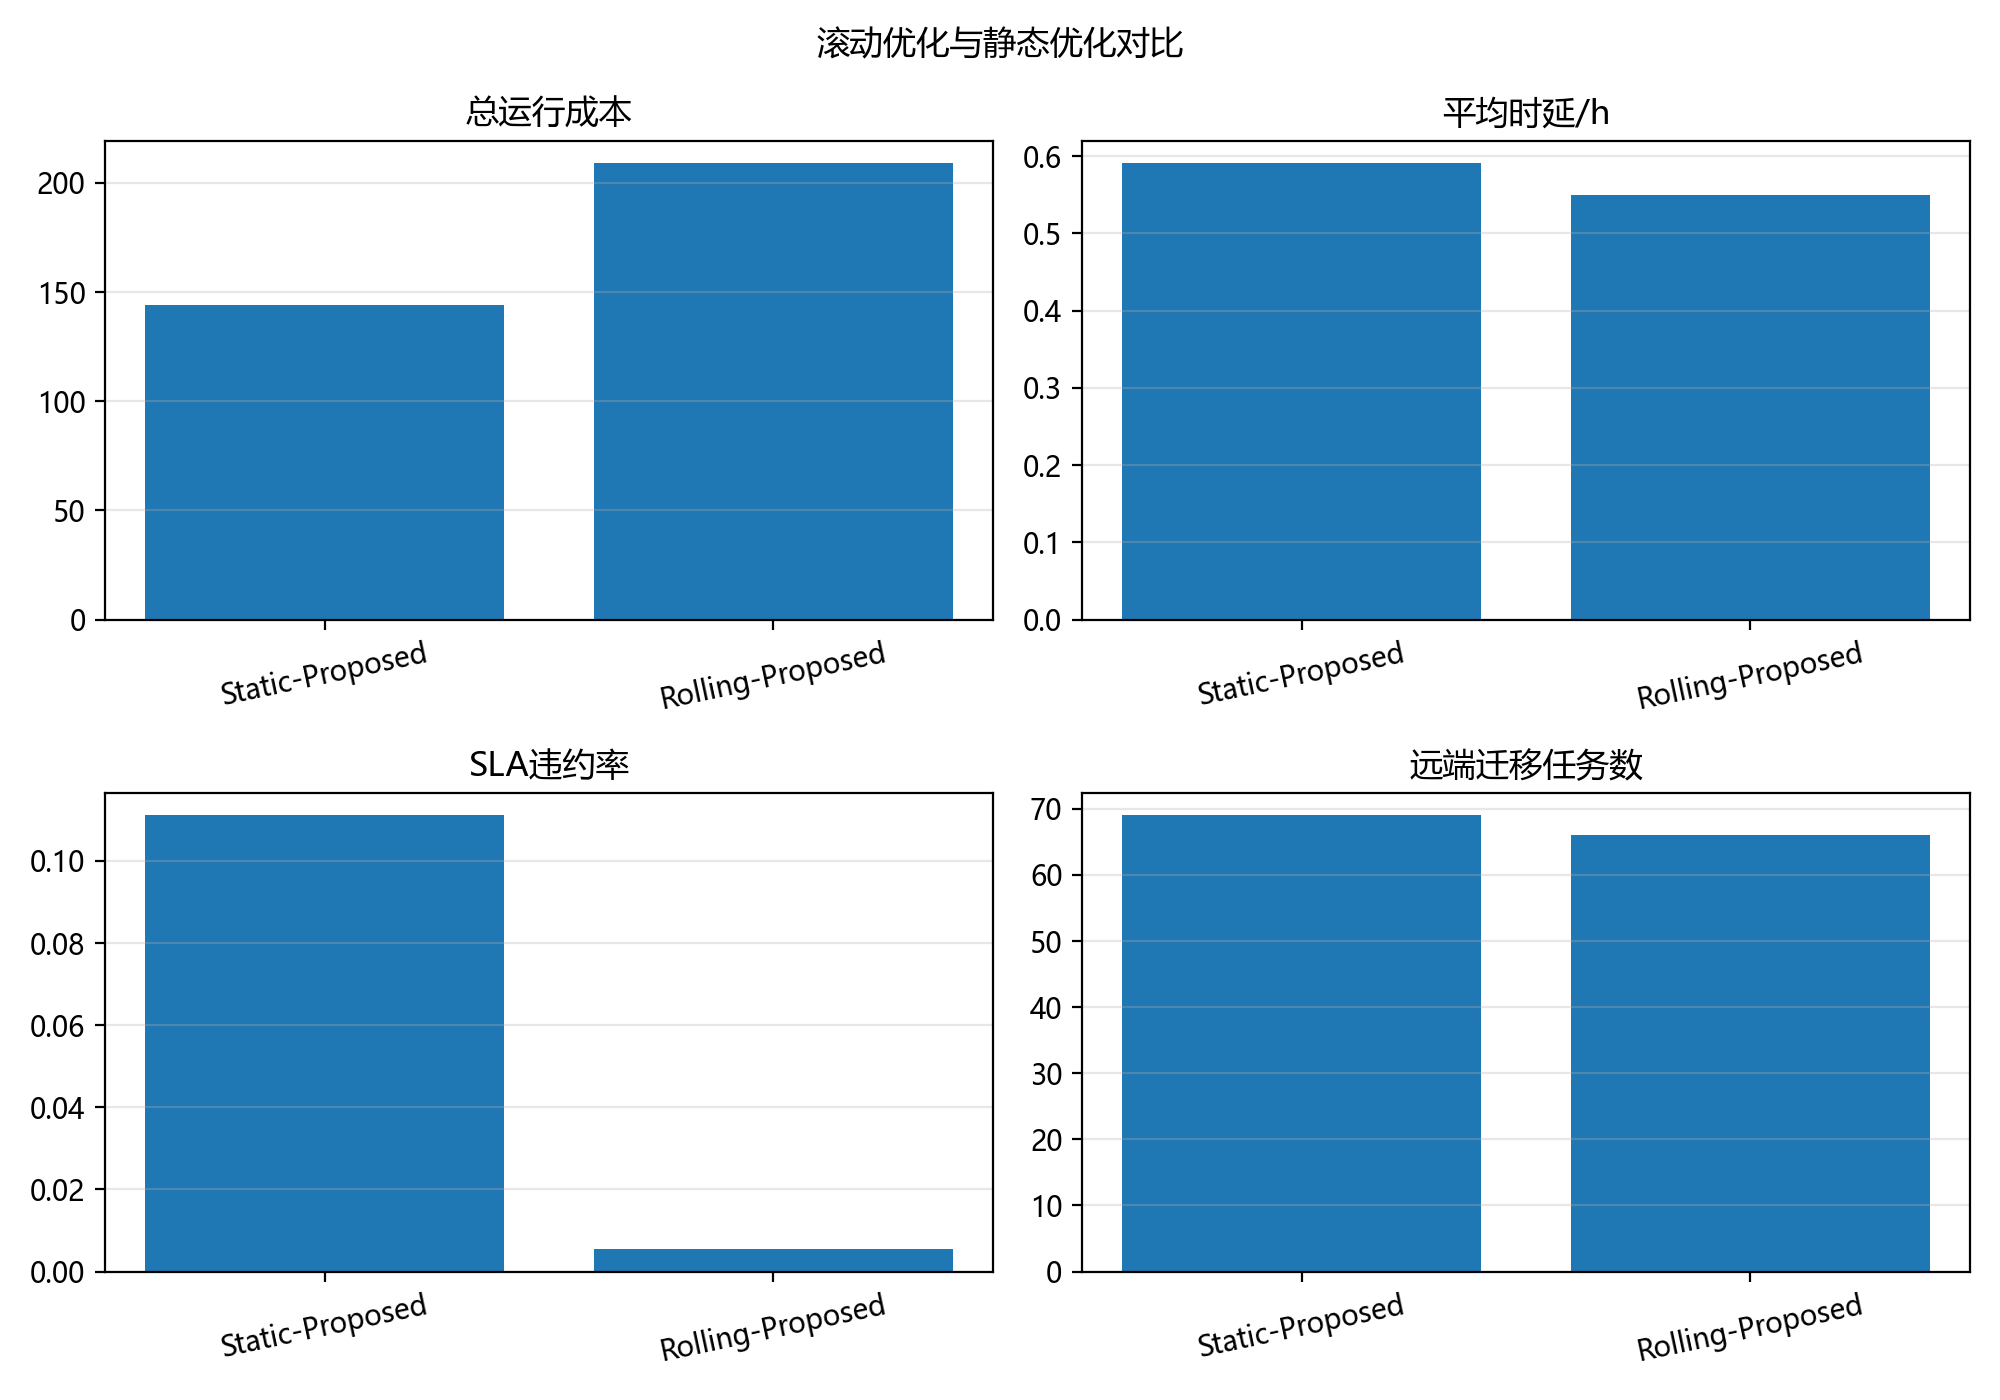
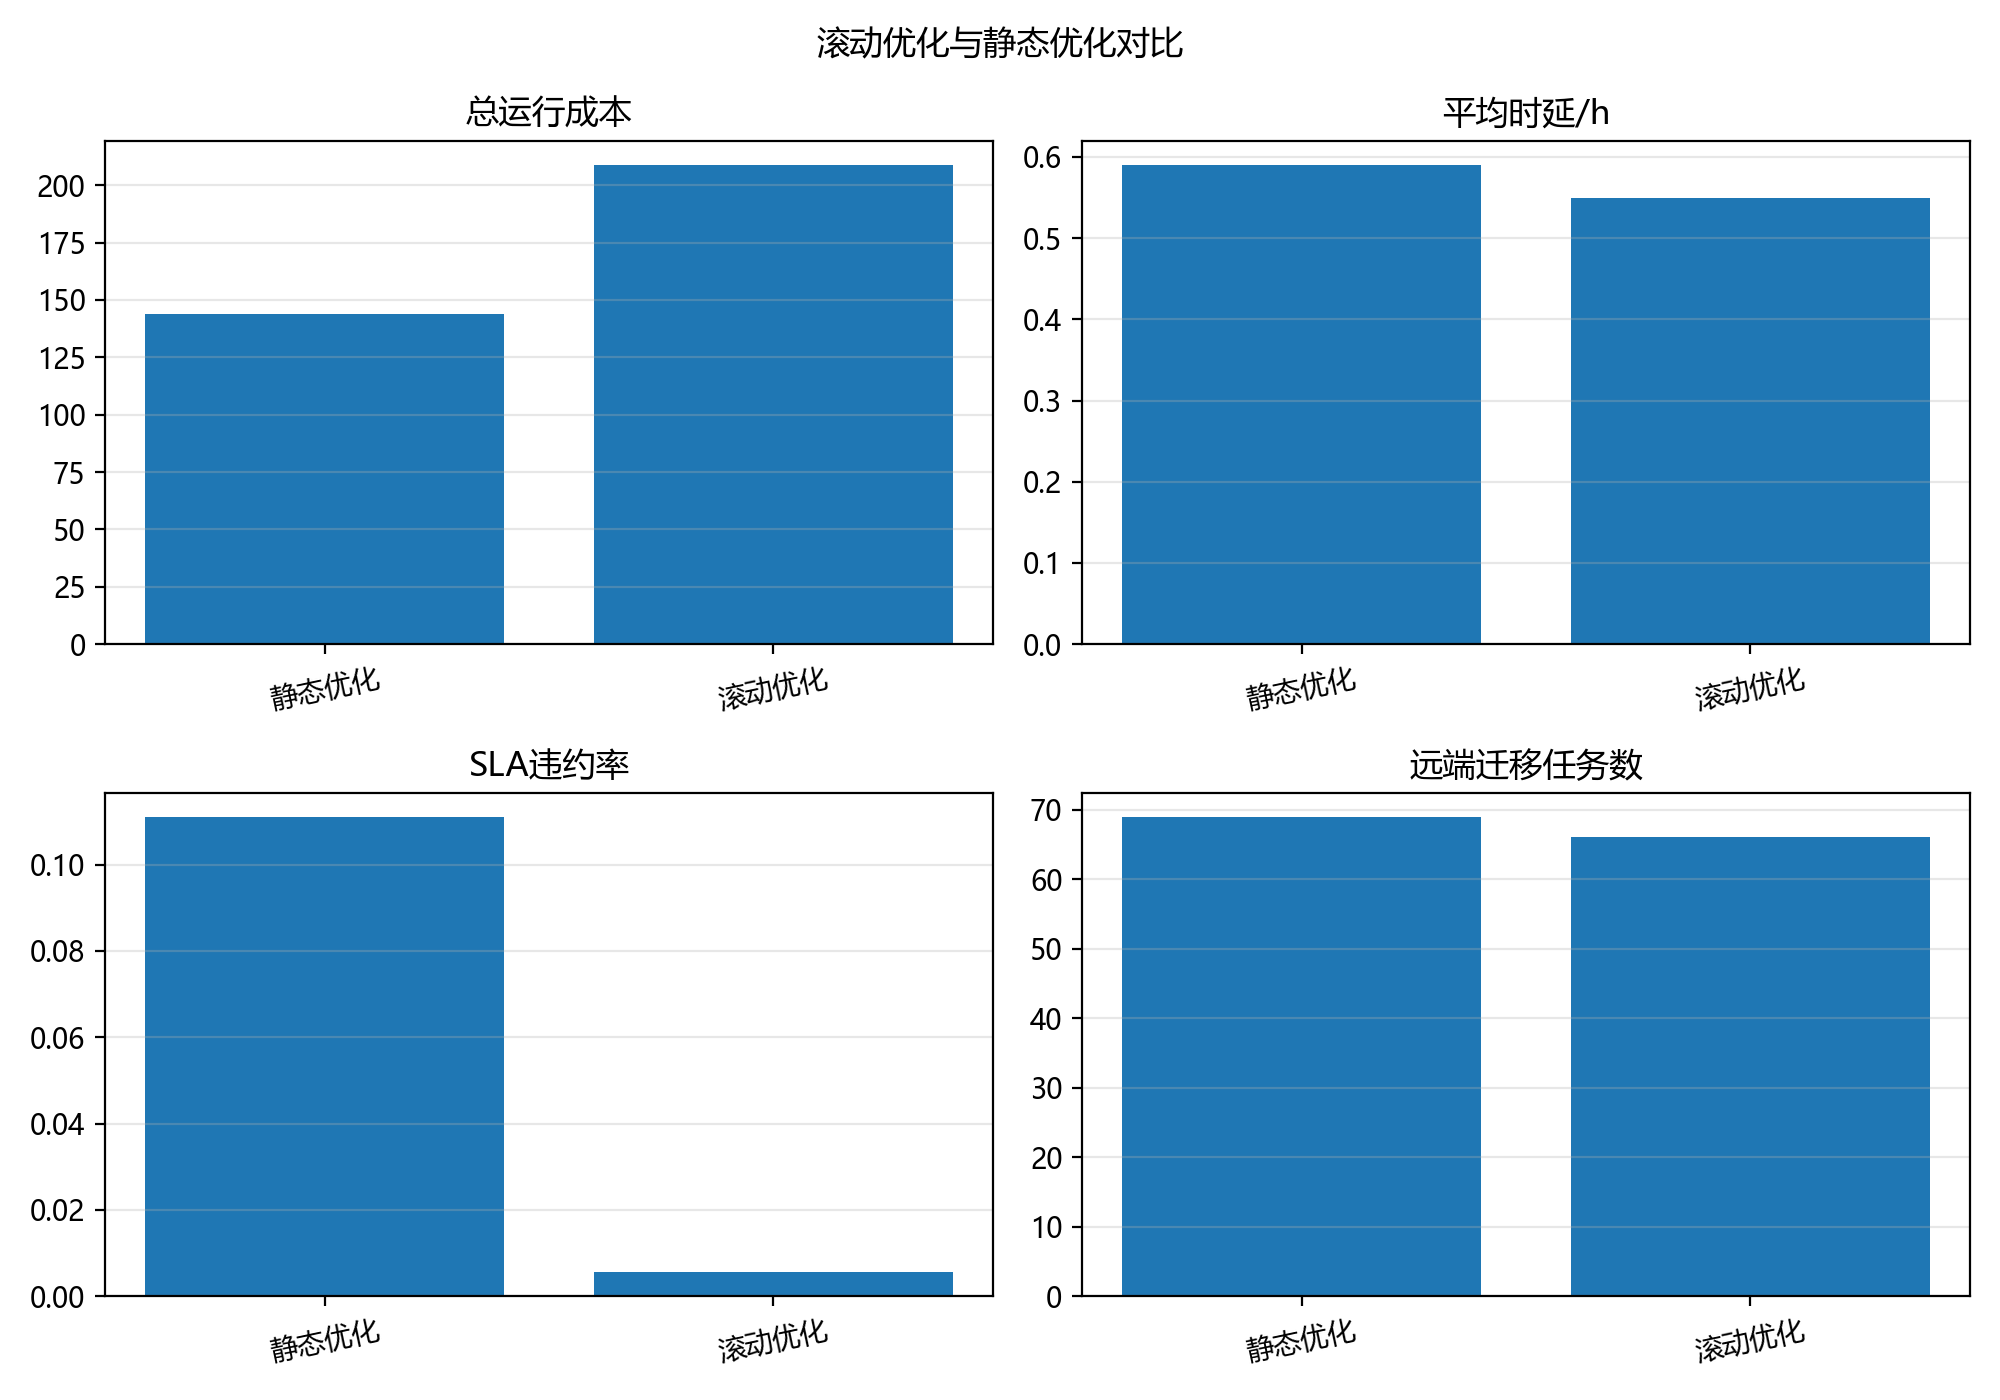
更改图例

diff --git a/utils/plotting.py b/utils/plotting.py
@@ -28,6 +28,25 @@ def _localize_title(title: str) -> str:
     return title_map.get(title, title)
 
 
+def _localize_algorithm_labels(labels) -> list[str]:
+    label_map = {
+        "FCFS": "FCFS",
+        "Price-Only": "仅电价响应",
+        "Homogeneous-Baseline": "同构基线",
+        "GA": "GA",
+        "PSO": "PSO",
+        "Proposed": "Proposed",
+        "Static-Proposed": "静态优化",
+        "Rolling-Proposed": "滚动优化",
+        "完整Proposed": "完整方案",
+        "无空间迁移": "无空间迁移",
+        "无时间迁移": "无时间迁移",
+        "无异构感知": "无异构感知",
+        "无优先级调度": "无优先级调度",
+    }
+    return [label_map.get(str(label), str(label)) for label in labels]
+
+
 def plot_price_load_curve(hourly_df: pd.DataFrame, output_path: str | Path) -> None:
     fig, ax1 = plt.subplots(figsize=(10, 5))
     ax1.plot(hourly_df["hour"], hourly_df["price"], color="#b94700", marker="o", label="分时电价")
@@ -70,7 +89,11 @@ def plot_pareto_front(pareto_df: pd.DataFrame, output_path: str | Path) -> None:
 
 def plot_total_energy_bar(results_df: pd.DataFrame, output_path: str | Path) -> None:
     fig, ax = plt.subplots(figsize=(8, 5))
-    ax.bar(results_df["algorithm"], results_df["total_energy_kwh"])
+    x = list(range(len(results_df)))
+    labels = _localize_algorithm_labels(results_df["algorithm"].astype(str).tolist())
+    ax.bar(x, results_df["total_energy_kwh"])
+    ax.set_xticks(x)
+    ax.set_xticklabels(labels)
     ax.set_ylabel("总能耗/kWh")
     ax.set_title("不同算法总能耗对比")
     ax.grid(True, axis="y", alpha=0.3)
@@ -85,8 +108,9 @@ def plot_cpu_gpu_utilization(results_df: pd.DataFrame, output_path: str | Path) 
     width = 0.35
     ax.bar([value - width / 2 for value in x], results_df["avg_cpu_utilization"], width=width, label="CPU平均利用率")
     ax.bar([value + width / 2 for value in x], results_df["avg_gpu_utilization"], width=width, label="GPU平均利用率")
+    labels = _localize_algorithm_labels(results_df["algorithm"].astype(str).tolist())
     ax.set_xticks(list(x))
-    ax.set_xticklabels(results_df["algorithm"])
+    ax.set_xticklabels(labels)
     ax.set_ylabel("平均利用率")
     ax.set_title("CPU/GPU资源利用率对比")
     ax.grid(True, axis="y", alpha=0.3)
@@ -132,7 +156,9 @@ def plot_single_objective_convergence(convergence_df: pd.DataFrame, output_path:
 
 def plot_ablation_results(ablation_df: pd.DataFrame, output_path: str | Path) -> None:
     fig, ax1 = plt.subplots(figsize=(9, 5))
-    x_labels = ["完整方案", "无空间迁移", "无时间迁移", "无异构感知", "无优先级"][: len(ablation_df)]
+    x_labels = _localize_algorithm_labels(
+        ["完整Proposed", "无空间迁移", "无时间迁移", "无异构感知", "无优先级调度"][: len(ablation_df)]
+    )
     ax1.bar(x_labels, ablation_df["total_cost"], color="#2f6f73", alpha=0.85, label="总运行成本")
     ax1.set_ylabel("总运行成本")
     ax1.tick_params(axis="x", rotation=15)
@@ -217,10 +243,28 @@ def plot_cross_region_delay_sensitivity(sensitivity_df: pd.DataFrame, output_pat
 
 def plot_spatial_migration_bar(results_df: pd.DataFrame, output_path: str | Path) -> None:
     fig, ax = plt.subplots(figsize=(8, 5))
-    ax.bar(results_df["algorithm"], results_df["remote_task_count"], color="#3b5bdb")
+    x = list(range(len(results_df)))
+    labels = _localize_algorithm_labels(results_df["algorithm"].astype(str).tolist())
+    values = results_df["remote_task_count"].astype(float).tolist()
+    bars = ax.bar(x, values, color="#3b5bdb")
+    max_value = max(values) if values else 0.0
+    y_offset = max(max_value * 0.02, 0.05)
+
+    ax.set_xticks(x)
+    ax.set_xticklabels(labels)
     ax.set_ylabel("远端迁移任务数")
-    ax.set_title("空间迁移任务数对比")
+    ax.set_title("不同算法空间迁移任务数对比")
     ax.grid(True, axis="y", alpha=0.3)
+    if max_value > 0:
+        ax.set_ylim(top=max_value * 1.15)
+    else:
+        ax.set_ylim(0, 1)
+
+    for bar, value in zip(bars, values):
+        label = str(int(value)) if float(value).is_integer() else f"{value:.2f}"
+        y = y_offset if value == 0 else value + y_offset
+        ax.text(bar.get_x() + bar.get_width() / 2, y, label, ha="center", va="bottom")
+
     fig.tight_layout()
     fig.savefig(output_path, dpi=200)
     plt.close(fig)
@@ -243,17 +287,12 @@ def plot_load_shift_curve(hourly_df: pd.DataFrame, metrics, output_path: str | P
 
 def plot_time_space_ablation(ablation_df: pd.DataFrame, output_path: str | Path) -> None:
     scenario_order = ["完整Proposed", "无空间迁移", "无时间迁移"]
-    label_map = {
-        "完整Proposed": "时空迁移",
-        "无空间迁移": "仅时间迁移",
-        "无时间迁移": "仅空间迁移",
-    }
     selected = ablation_df[ablation_df["algorithm"].isin(scenario_order)].copy()
     if selected.empty:
         return
     selected["algorithm"] = pd.Categorical(selected["algorithm"], categories=scenario_order, ordered=True)
     selected = selected.sort_values("algorithm")
-    labels = [label_map[str(value)] for value in selected["algorithm"]]
+    labels = _localize_algorithm_labels(selected["algorithm"].astype(str).tolist())
 
     fig, ax1 = plt.subplots(figsize=(8, 5))
     ax1.bar(labels, selected["total_cost"], color="#1864ab", alpha=0.85, label="总运行成本")
@@ -346,7 +385,7 @@ def plot_rolling_vs_static(rolling_df: pd.DataFrame, output_path: str | Path) ->
     if selected.empty:
         return
 
-    algorithms = selected["algorithm"].astype(str).tolist()
+    algorithms = _localize_algorithm_labels(selected["algorithm"].astype(str).tolist())
     metrics = [
         ("total_cost", "总运行成本"),
         ("avg_delay_hours", "平均时延/h"),
